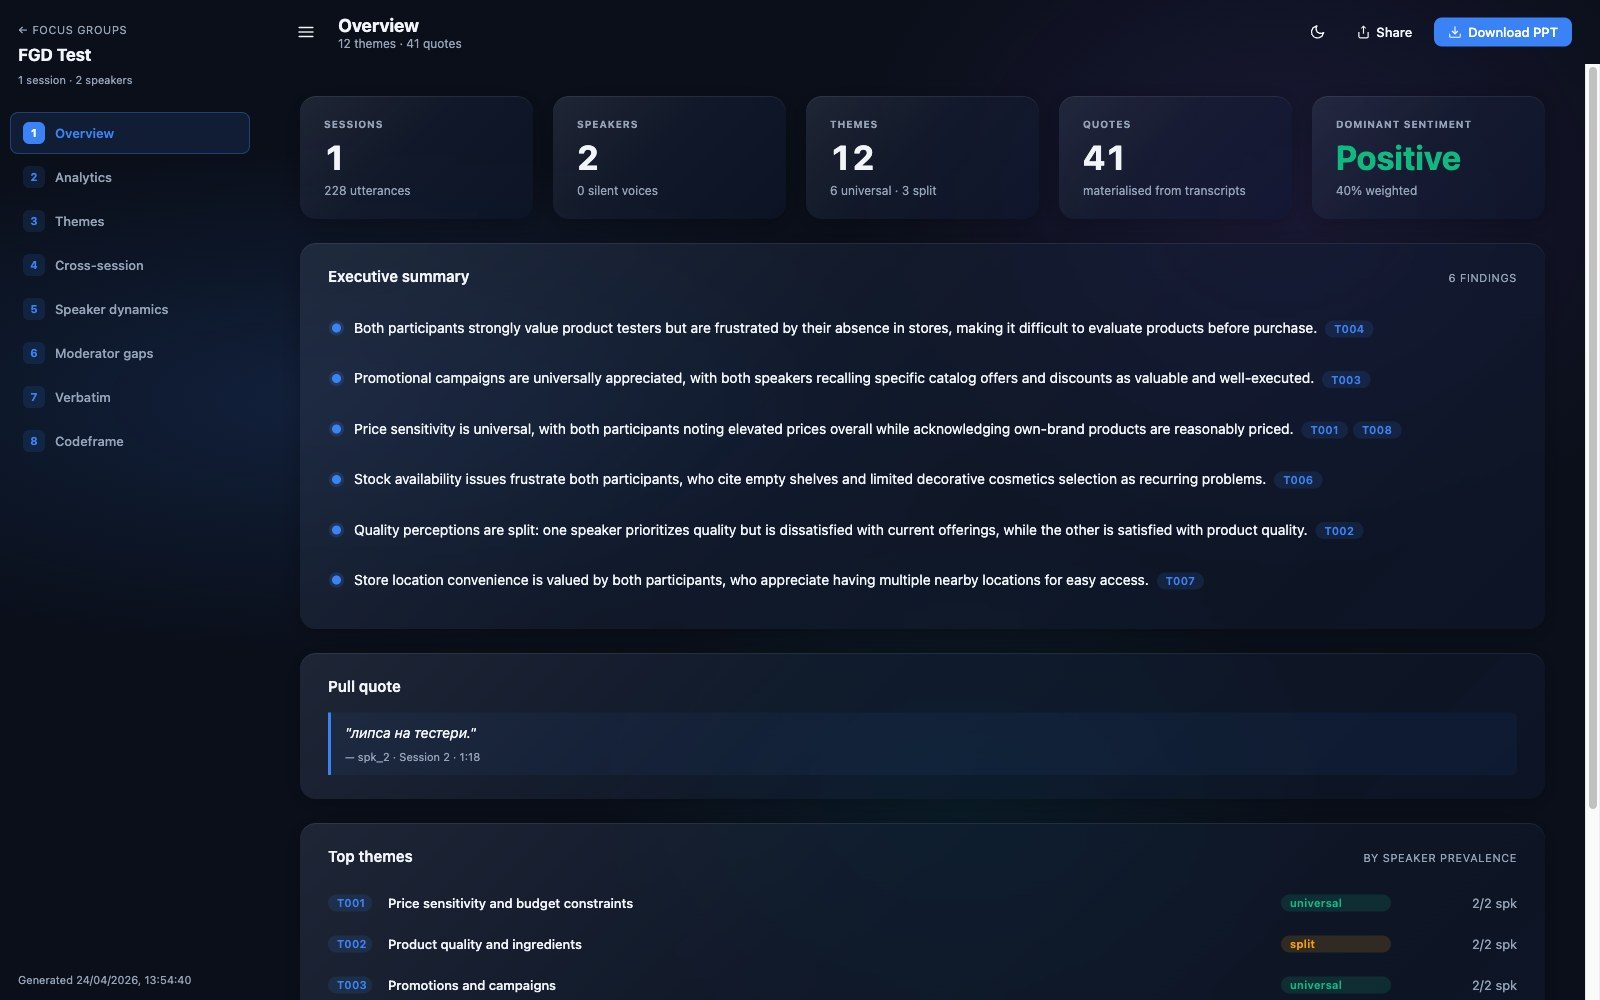
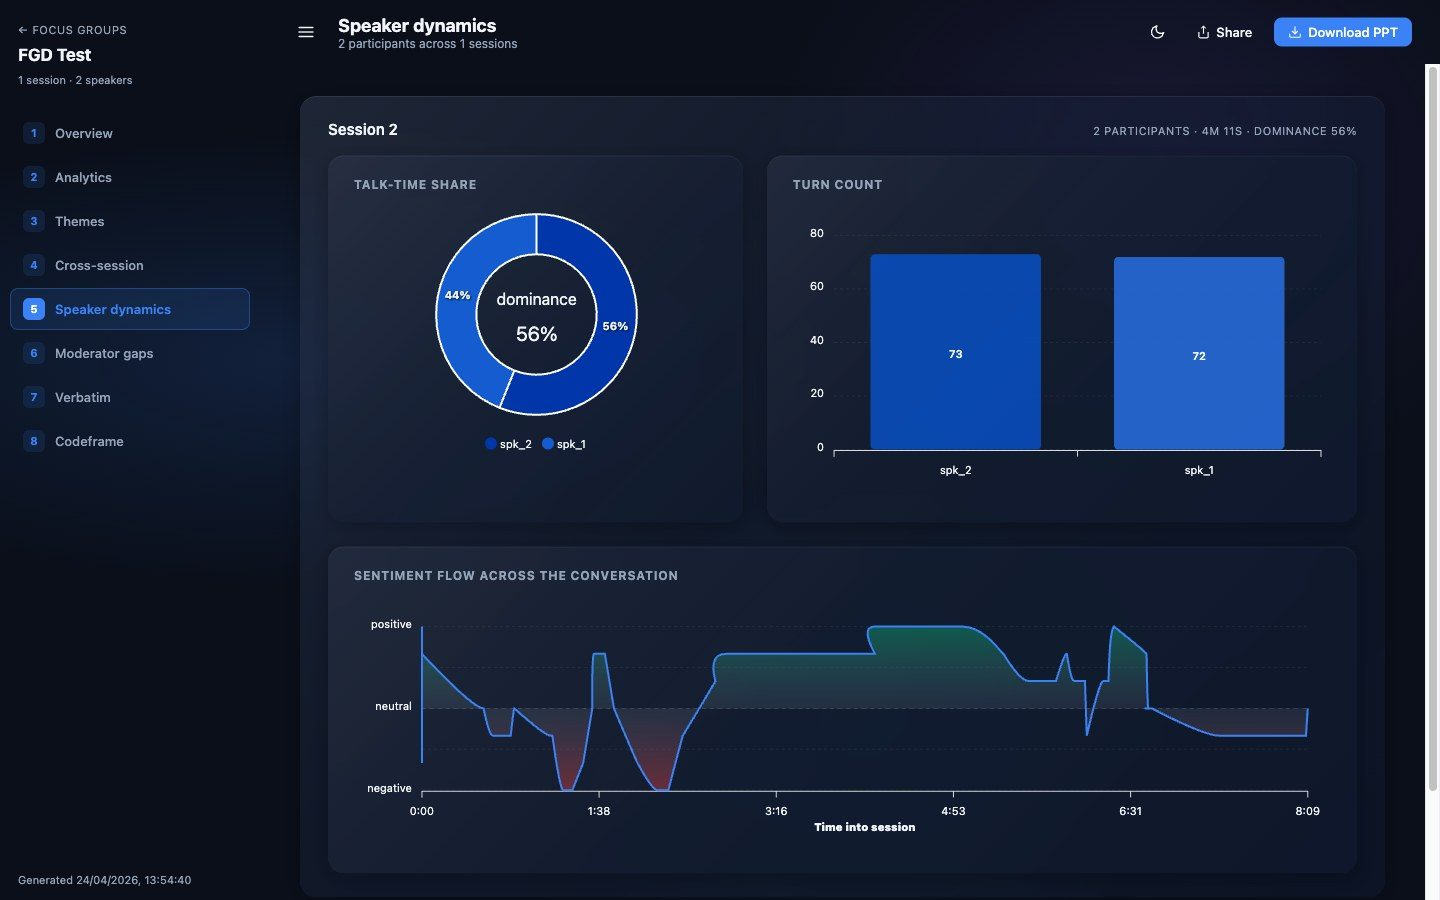
Research page: replace Bulgarian-content screenshots with English ones
OE coding shot now shows the English 1,960-verbatim job (sentiment,
confidence, gibberish auto-quarantine); insights shot now shows the
Consumer Segments section (donut + radar, no country references);
FGD shot now shows Speaker Dynamics (talk-time, turns, sentiment
flow) instead of the overview with a Cyrillic pull-quote. Captions
updated to match. No Bulgarian text anywhere on the page.

diff --git a/ragenaizer-research.html b/ragenaizer-research.html
@@ -664,8 +664,8 @@ if (n == 0) { Delete("AGE_BAND"); }</code></pre>
         <div class="mono text-[10px] tracking-widest text-muted">LIVE&nbsp;PRODUCT&nbsp;·&nbsp;OPEN-END&nbsp;CODING&nbsp;RESULTS</div>
         <div class="flex gap-1.5"><span class="h-2 w-2 rounded-full bg-white/15"></span><span class="h-2 w-2 rounded-full bg-white/15"></span><span class="h-2 w-2 rounded-full bg-mint/70"></span></div>
       </div>
-      <img src="assets/screens/research/oe-coding.jpg" alt="Ragenaizer Research open-end coding results — Bulgarian verbatims coded with sentiment, confidence and multiple codes per response" loading="lazy" class="w-full block" />
-      <figcaption class="px-5 py-3 text-xs text-text-2/70 border-t border-white/10">Live coding results on a Bulgarian-language study: 758 verbatims coded into a 40-code frame, each response carrying its sentiment, confidence and up to five codes — every row editable by the analyst.</figcaption>
+      <img src="assets/screens/research/oe-coding.jpg" alt="Ragenaizer Research open-end coding results — verbatims coded with sentiment, confidence and multiple codes per response" loading="lazy" class="w-full block" />
+      <figcaption class="px-5 py-3 text-xs text-text-2/70 border-t border-white/10">Live coding results: 1,960 verbatims coded into a 78-code frame in under ten minutes — sentiment and confidence on every response, gibberish auto-quarantined, and every row editable by the analyst.</figcaption>
     </figure>
   </div>
 </section>
@@ -801,8 +801,8 @@ if (n == 0) { Delete("AGE_BAND"); }</code></pre>
         <div class="mono text-[10px] tracking-widest text-muted">LIVE&nbsp;PRODUCT&nbsp;·&nbsp;AI&nbsp;INSIGHT&nbsp;DASHBOARD</div>
         <div class="flex gap-1.5"><span class="h-2 w-2 rounded-full bg-white/15"></span><span class="h-2 w-2 rounded-full bg-white/15"></span><span class="h-2 w-2 rounded-full bg-mint/70"></span></div>
       </div>
-      <img src="assets/screens/research/insights-dashboard.jpg" alt="Ragenaizer Research AI-generated insight dashboard — demographic charts with written insights on a 3,094-respondent tracker wave" loading="lazy" class="w-full block" />
-      <figcaption class="px-5 py-3 text-xs text-text-2/70 border-t border-white/10">A generated dashboard on a live 3,094-respondent tracker wave: nine sections from executive summary to wave comparison, every chart base-labelled and paired with a written insight.</figcaption>
+      <img src="assets/screens/research/insights-dashboard.jpg" alt="Ragenaizer Research AI-generated insight dashboard — consumer segments sized and profiled with written key findings" loading="lazy" class="w-full block" />
+      <figcaption class="px-5 py-3 text-xs text-text-2/70 border-t border-white/10">A generated dashboard on a live 1,630-respondent study: value-based segments sized and profiled on the platform's own segmentation engine, with the key findings written above the charts.</figcaption>
     </figure>
   </div>
 </section>
@@ -895,8 +895,8 @@ if (n == 0) { Delete("AGE_BAND"); }</code></pre>
         <div class="mono text-[10px] tracking-widest text-muted">LIVE&nbsp;PRODUCT&nbsp;·&nbsp;FOCUS-GROUP&nbsp;REPORT</div>
         <div class="flex gap-1.5"><span class="h-2 w-2 rounded-full bg-white/15"></span><span class="h-2 w-2 rounded-full bg-white/15"></span><span class="h-2 w-2 rounded-full bg-mint/70"></span></div>
       </div>
-      <img src="assets/screens/research/fgd-report.jpg" alt="Ragenaizer Research focus-group report — executive summary, themes, quotes and sentiment from a diarised session" loading="lazy" class="w-full block" />
-      <figcaption class="px-5 py-3 text-xs text-text-2/70 border-t border-white/10">A generated discussion report: 228 utterances distilled into 12 themes and 41 transcript-verified quotes, with an executive summary, consensus levels and sentiment — minutes after the recording is uploaded.</figcaption>
+      <img src="assets/screens/research/fgd-report.jpg" alt="Ragenaizer Research focus-group report — speaker dynamics with talk-time share, turn counts and sentiment flow" loading="lazy" class="w-full block" />
+      <figcaption class="px-5 py-3 text-xs text-text-2/70 border-t border-white/10">Speaker dynamics from a live session report: talk-time share and dominance, turn counts, and sentiment flow across the conversation — the evidence layer beneath every theme and quote.</figcaption>
     </figure>
   </div>
 </section>